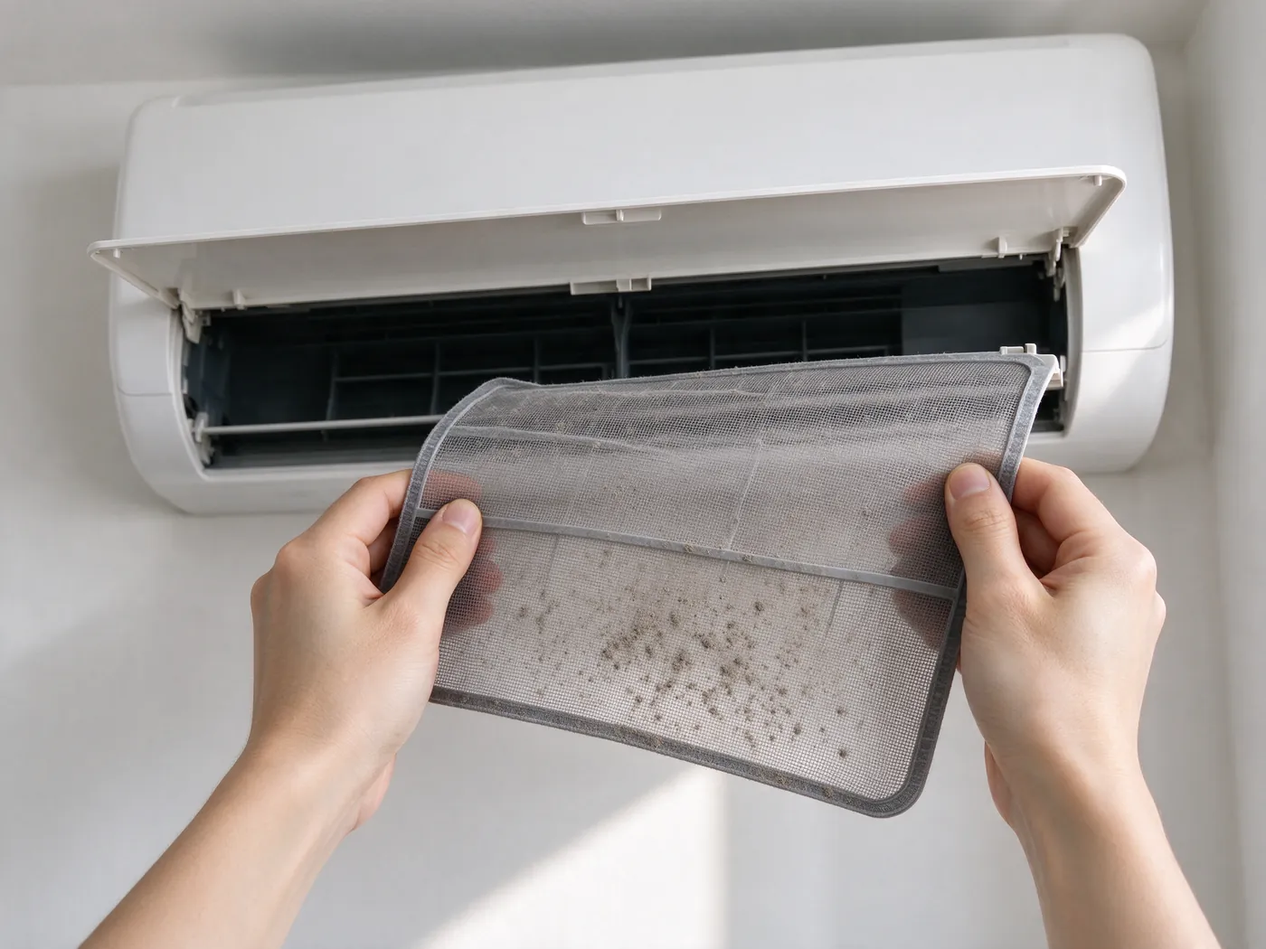
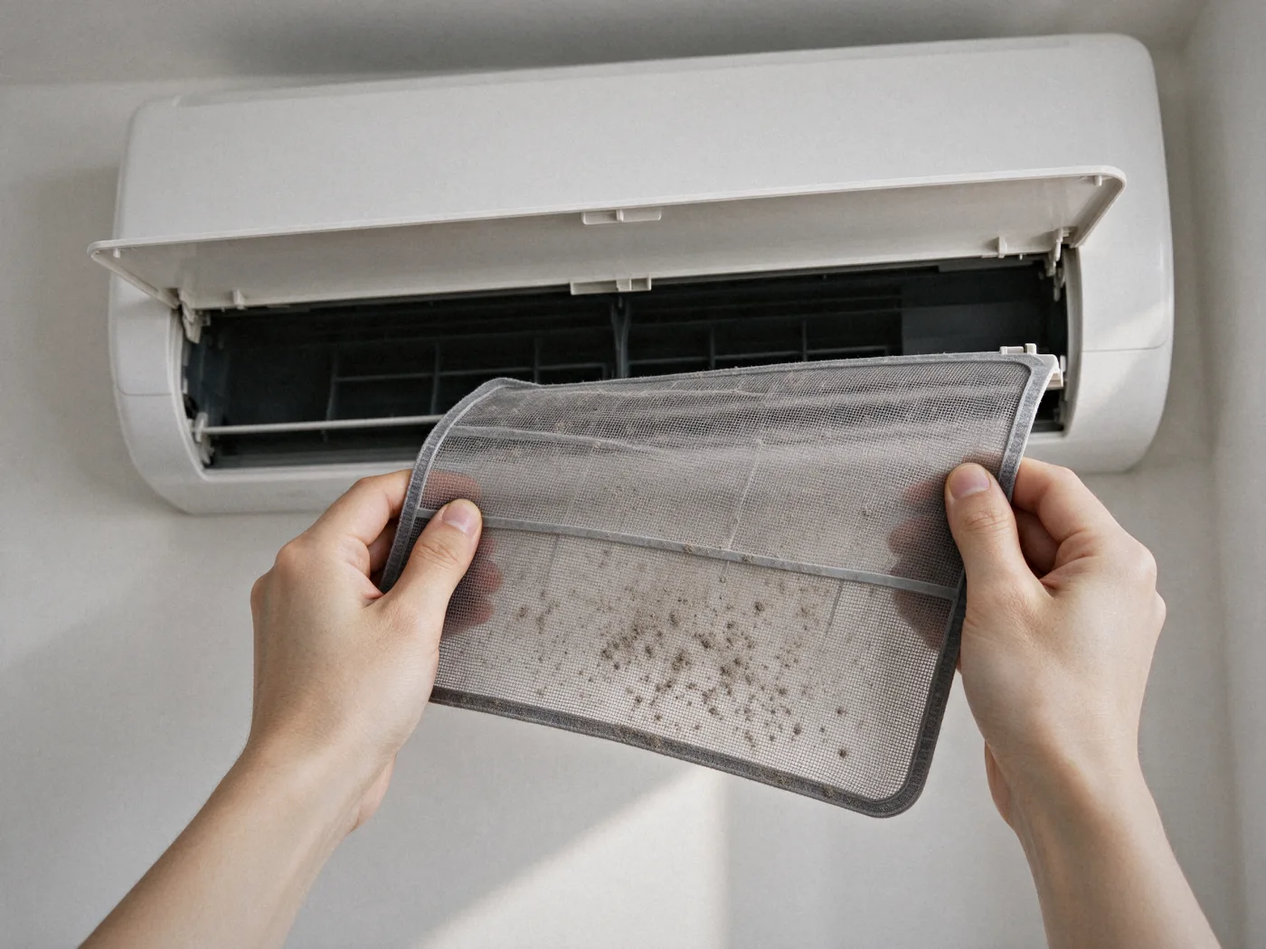
r17: documentary-style photos and photo layout, light and motion for A3–C3
Owner feedback: the first AI photo set looked fake. Eight photos are regenerated as
candid documentary shots of ordinary Thai rooms and job sites; the three older ones
are regraded, and the repair photo is reframed to the hands, gauges and valves.
Every photo goes through one grade (tools/photofinish.py), and brand-like marks on
the units are inpainted. photos.json alt and prompt text now match the images.

Layout and mood are CSS only (v3.css plus each edition's CSS); site.js and the
A/B/C originals are untouched:
- Page headings centre the words against a 3:2 print (pricing collage 4:3).
  On phones the heading and lead come before the photo.
- Each edition lays its own light over the photos. A3 gets warm window light
  with sun bars behind the hero and page heads. B3 gets field-manual plates
  with an offset hairline frame and an ink caption, plus a 2:1 hero. C3 gets
  gallery prints in a white mat with a spotlight and a floor shadow.
- Photos settle in when a page opens. Hero photos drift 5% on scroll
  (scroll-driven animation). Nothing moves with reduced motion.

Claude-Session: https://claude.ai/code/session_01WCDN8FufK2UnzfgaqCiZyF

Changed region(s): [[0.0, 0.579, 1.0, 1.0], [0.645, 0.0, 1.0, 0.4267], [0.0, 0.0, 0.1843, 0.2133]]

diff --git a/sbp-aircare/a3.html b/sbp-aircare/a3.html
@@ -51,7 +51,7 @@ h1,h2,h3,h4{font-family:var(--display)}
 .a3-hero .jobs a{box-shadow:var(--shadow);border-color:transparent}
 .a3-hero .jobs a:hover{box-shadow:var(--shadow),0 0 0 1.5px var(--blue-2)}
 .a3-hero-ph{--ar:4/5;min-height:100%}
-@media (max-width:900px){.a3-hero-g,.a3-hero-g:not(:has(.ph3)){grid-template-columns:minmax(0,1fr);grid-template-areas:"ph" "t" "j"}.a3-hero-ph{--ar:16/10;min-height:0}}
+@media (max-width:900px){.a3-hero-g,.a3-hero-g:not(:has(.ph3)){grid-template-columns:minmax(0,1fr);grid-template-areas:"t" "ph" "j"}.a3-hero .a3-hero-ph{aspect-ratio:5/4;min-height:0;--ph-pos:50% 15%}}
 /* sections */
 section.sec{padding-block:56px 8px}
 .sec-h h2{font-size:clamp(25px,2.8vw,34px);font-weight:700}
@@ -65,6 +65,27 @@ section.sec{padding-block:56px 8px}
 footer{background:var(--tile)}
 @media (min-width:1241px) and (max-width:1480px){.logo small{display:none}.nav a{padding:8px 10px;font-size:14.5px}.hdr .wrap{gap:12px}}
 @media (min-width:1241px) and (max-width:1480px){.sx-sbtn span,.sx-sbtn kbd{display:none}}
+/* r17 · morning light: photos are warmed from the top-left like the window light in the pictures, sit on a long soft
+   shadow, and the hero and every page heading get pale sun bars falling through a window behind the photo */
+:root{
+  --ph-shadow:0 1px 2px rgba(16,34,60,.06),0 34px 60px -34px rgba(16,34,60,.42);
+  --ph-light:linear-gradient(122deg,rgba(255,214,168,.38) 0%,rgba(255,214,168,0) 46%),linear-gradient(0deg,rgba(14,27,48,.16),rgba(14,27,48,0) 32%);
+  --ph-blend:soft-light;
+  --sun:rgba(255,224,180,.72);
+}
+.a3-hero,.sx-vh.has-ph{position:relative;isolation:isolate}
+.a3-hero{overflow-x:clip}
+.a3-hero::before,.sx-vh.has-ph::before{content:"";position:absolute;z-index:-1;pointer-events:none;
+  background:radial-gradient(46% 40% at 70% 14%,rgba(255,221,176,.55),rgba(255,221,176,0) 70%),repeating-linear-gradient(112deg,transparent 0 64px,var(--sun) 64px 132px,transparent 132px 176px);
+  filter:blur(18px);-webkit-mask:radial-gradient(56% 66% at 48% 42%,#000 26%,transparent 76%);mask:radial-gradient(56% 66% at 48% 42%,#000 26%,transparent 76%)}
+.a3-hero::before{inset:-2% -4% -8% 22%}
+.sx-vh.has-ph::before{inset:0 -40px -10px 28%}
+@media (prefers-reduced-motion:no-preference){.a3-hero::before{animation:a3-sun 26s ease-in-out infinite alternate}@keyframes a3-sun{to{translate:-34px 10px}}}
+.a3-hero-ph{--ph-pos:50% 60%}
+.a3-hero .lede{max-width:33em}
+.sx-vh.has-ph h1{line-height:1.2}
+@media (max-width:900px){.a3-hero::before{inset:34% -12% -4% 8%}}
+@media (max-width:860px){.sx-vh.has-ph::before{inset:auto -16px -10px 0;height:70%}}
 
 </style>
 </head>
@@ -92,7 +113,7 @@ footer{background:var(--tile)}
         <li><a href="#repair"><span class="ji" aria-hidden="true"><svg viewBox="0 0 24 24" fill="none" stroke="currentColor" stroke-width="1.8" stroke-linecap="round" stroke-linejoin="round"><path d="M14 6a4 4 0 0 0 5 5l-9 9-3-3 9-9"/></svg></span><span><b>แอร์มีอาการ ซ่อม ตรวจเช็ก</b><small>ไม่เย็น น้ำหยด มีเสียง มีกลิ่น</small></span><span class="jp" data-from="repair"></span></a></li>
         <li><a href="#business"><span class="ji" aria-hidden="true"><svg viewBox="0 0 24 24" fill="none" stroke="currentColor" stroke-width="1.8" stroke-linecap="round" stroke-linejoin="round"><path d="M4 20V8l8-4 8 4v12M9 20v-6h6v6"/></svg></span><span><b>องค์กร สัญญาล้างรายปี</b><small>สำนักงาน ร้านค้า โรงงาน อาคาร</small></span><span class="jp">ราคาขั้นบันได</span></a></li>
       </ul>
-    <figure class="ph3 a3-hero-ph" style="--ar:4/5"><img src="assets/photos/hero-a.webp" alt="ห้องนั่งเล่นสว่างช่วงเช้า มีแอร์ติดผนังสีขาวเหนือโซฟา" loading="eager" decoding="async"><figcaption>ภาพประกอบ</figcaption></figure>
+    <figure class="ph3 a3-hero-ph hero-ph" style="--ar:4/5"><img src="assets/photos/hero-a.webp" alt="ห้องนั่งเล่นคอนโดช่วงสาย มีแอร์ติดผนังสีขาวและรางครอบท่อเหนือโซฟา" loading="eager" decoding="async"><figcaption>ภาพประกอบ</figcaption></figure>
   </div>
 </section>
 <div class="wrap">
@@ -316,14 +337,14 @@ footer{background:var(--tile)}
 <div class="tray" data-compare hidden><ul data-compare-list></ul><button type="button" class="btn-primary" data-compare-go>เทียบ</button></div>
 <div class="drawer" data-drawer id="drawer" hidden><div class="dp" role="dialog" aria-modal="true" aria-label="รายละเอียด"><button type="button" class="x" data-close aria-label="ปิด">×</button><div id="drawerBody"></div></div></div>
 <div hidden>
-<figure class="ph3 sx-ph" style="--ar:4/3" data-sx-photo="shop" hidden><img src="assets/photos/pg-shop.webp" alt="ห้องนอนสว่าง มีแอร์ติดผนังเครื่องใหม่เหนือหัวเตียง" loading="lazy" decoding="async"><figcaption>ภาพประกอบ</figcaption></figure>
+<figure class="ph3 sx-ph" style="--ar:4/3" data-sx-photo="shop" hidden><img src="assets/photos/pg-shop.webp" alt="ห้องนอนทาวน์เฮาส์หลังติดตั้งแอร์ติดผนังเครื่องใหม่ รางครอบท่อเดินไปมุมห้อง แสงไฟตอนหัวค่ำ" loading="lazy" decoding="async"><figcaption>ภาพประกอบ</figcaption></figure>
 <figure class="ph3 sx-ph" style="--ar:4/3" data-sx-photo="cleaning" hidden><img src="assets/photos/pg-clean.webp" alt="ภาพใกล้ครีบคอยล์เย็นขณะฉีดน้ำล้าง มีละอองน้ำ" loading="lazy" decoding="async"><figcaption>ภาพประกอบ</figcaption></figure>
-<figure class="ph3 sx-ph" style="--ar:4/3" data-sx-photo="install" hidden><img src="assets/photos/pg-install.webp" alt="ช่างกำลังบานแฟลร์ท่อทองแดงด้วยเครื่องมือ ข้างคอยล์ร้อน" loading="lazy" decoding="async"><figcaption>ภาพประกอบ</figcaption></figure>
-<figure class="ph3 sx-ph" style="--ar:4/3" data-sx-photo="repair" hidden><img src="assets/photos/pg-repair.webp" alt="ช่างต่อเกจวัดแรงดันกับคอยล์ร้อน ตรวจระบบน้ำยา" loading="lazy" decoding="async"><figcaption>ภาพประกอบ</figcaption></figure>
-<figure class="ph3 sx-ph" style="--ar:4/3" data-sx-photo="business" hidden><img src="assets/photos/pg-business.webp" alt="สำนักงานโล่งกว้าง มีแอร์สี่ทิศทางฝังฝ้าหลายเครื่อง" loading="lazy" decoding="async"><figcaption>ภาพประกอบ</figcaption></figure>
-<figure class="ph3 sx-ph" style="--ar:4/3" data-sx-photo="pricing" hidden><img src="assets/photos/pg-pricing.webp" alt="แอร์สี่ประเภท ติดผนัง แขวนใต้ฝ้า สี่ทิศทาง และตู้ตั้งพื้น ในห้องต่างกัน" loading="lazy" decoding="async"><figcaption>ภาพประกอบ</figcaption></figure>
+<figure class="ph3 sx-ph" style="--ar:4/3" data-sx-photo="install" hidden><img src="assets/photos/pg-install.webp" alt="ช่างคุกเข่าขันแฟลร์นัตเข้าวาล์วคอยล์ร้อนบนขาแขวน ระเบียงคอนโด มีปั๊มสุญญากาศและขดท่อทองแดง" loading="lazy" decoding="async"><figcaption>ภาพประกอบ</figcaption></figure>
+<figure class="ph3 sx-ph" style="--ar:4/3" data-sx-photo="repair" hidden><img src="assets/photos/pg-repair.webp" alt="มือช่างต่อชุดเกจวัดแรงดันเข้าวาล์วคอยล์ร้อน ตรวจระบบน้ำยา" loading="lazy" decoding="async"><figcaption>ภาพประกอบ</figcaption></figure>
+<figure class="ph3 sx-ph" style="--ar:4/3" data-sx-photo="business" hidden><img src="assets/photos/pg-business.webp" alt="สำนักงานที่มีคนทำงาน ฝ้าทีบาร์มีแอร์สี่ทิศทางหลายเครื่อง แสงบ่าย" loading="lazy" decoding="async"><figcaption>ภาพประกอบ</figcaption></figure>
+<figure class="ph3 sx-ph" style="--ar:4/3" data-sx-photo="pricing" hidden><img src="assets/photos/pg-pricing.webp" alt="ภาพสี่ช่อง: แอร์ติดผนังในห้องนอน แอร์สี่ทิศทางในร้านก๋วยเตี๋ยว แอร์สี่ทิศทางในสำนักงาน และแอร์ตู้ตั้งพื้นในห้องประชุม" loading="lazy" decoding="async"><figcaption>ภาพประกอบ</figcaption></figure>
 <figure class="ph3 sx-ph" style="--ar:4/3" data-sx-photo="guide" hidden><img src="assets/photos/pg-guide.webp" alt="มือถอดแผ่นกรองฝุ่นออกจากแอร์ติดผนัง" loading="lazy" decoding="async"><figcaption>ภาพประกอบ</figcaption></figure>
-<figure class="ph3 sx-ph" style="--ar:4/3" data-sx-photo="contact" hidden><img src="assets/photos/pg-contact.webp" alt="ช่างยื่นแท็บเล็ตแสดงรายงานงานให้ลูกค้าตรวจในบ้าน" loading="lazy" decoding="async"><figcaption>ภาพประกอบ</figcaption></figure>
+<figure class="ph3 sx-ph" style="--ar:4/3" data-sx-photo="contact" hidden><img src="assets/photos/pg-contact.webp" alt="ช่างยื่นแท็บเล็ตให้เจ้าของบ้านดูที่หน้าประตูรั้วทาวน์เฮาส์ในซอย" loading="lazy" decoding="async"><figcaption>ภาพประกอบ</figcaption></figure>
 </div>
 <script type="module">
 import { mountV3 } from './assets/v3site.js';

diff --git a/sbp-aircare/c3.html b/sbp-aircare/c3.html
@@ -65,6 +65,20 @@ section.sec{padding-block:64px 8px}
 footer{background:var(--tile-2);border-top:0}
 .c3-tabs .nav{flex:1}
 .c3-hero>.wrap{width:100%}
+/* r17 · gallery prints: every photo hangs in a white mat with a soft shadow on the wall, lit from above; the hero gets a
+   spotlight on the wall behind the headline and a soft shadow under the panorama */
+:root{
+  --r-ph:6px;
+  --ph-shadow:0 0 0 10px #FFFFFF,0 0 0 11px rgba(16,28,46,.08),0 40px 60px -36px rgba(16,28,46,.45);
+  --ph-light:radial-gradient(130% 90% at 50% -12%,rgba(255,255,255,.34),rgba(255,255,255,0) 58%),linear-gradient(0deg,rgba(16,28,46,.18),rgba(16,28,46,0) 34%);
+  --ph-blend:soft-light;
+}
+.c3-hero{background:radial-gradient(56% 62% at 50% 0%,#E6EDF6 0%,rgba(230,237,246,.55) 38%,rgba(255,255,255,0) 72%)}
+.c3-hero>.wrap:has(.ph3)::after{content:"";display:block;height:34px;margin:2px 6% 0;background:radial-gradient(50% 60% at 50% 0%,rgba(16,28,46,.16),rgba(16,28,46,0) 72%)}
+.c3-hero-ph{--ph-pos:50% 46%}
+.ph3{margin:11px}
+.c3-hero .ph3{margin-inline:11px}
+.sx-vh.has-ph{background:radial-gradient(40% 70% at 76% 40%,#EDF2F8,rgba(237,242,248,0) 70%)}
 
 </style>
 </head>
@@ -86,7 +100,7 @@ footer{background:var(--tile-2);border-top:0}
     <p class="lede">ดูขนาดที่เหมาะกับห้องของคุณ เทียบรุ่นพร้อมราคาติดตั้ง ลองวางในห้องจำลองก่อนตัดสินใจ แล้วให้ทีมช่างของบริษัทติดตั้ง ล้าง และดูแลต่อ ในกรุงเทพฯ และปริมณฑล</p>
     <p class="c3-cta"><a class="btn-primary" href="#shop">เลือกแอร์ใหม่</a><a class="btn-ghost" href="#cleaning">ล้างแอร์ที่มีอยู่</a></p>
   </div>
-  <div class="wrap"><figure class="ph3 c3-hero-ph" style="--ar:21/9"><img src="assets/photos/hero-c.webp" alt="ห้องนั่งเล่นคอนโดชั้นสูงวิวเมือง แอร์ติดผนังสีขาว แสงธรรมชาติ" loading="eager" decoding="async"><figcaption>ภาพประกอบ</figcaption></figure></div>
+  <div class="wrap"><figure class="ph3 c3-hero-ph hero-ph" style="--ar:21/9"><img src="assets/photos/hero-c.webp" alt="ห้องนั่งเล่นคอนโดชั้นสูงวิวเมือง แอร์ติดผนังเหนือผนังทีวี แสงบ่ายจากประตูระเบียง" loading="eager" decoding="async"><figcaption>ภาพประกอบ</figcaption></figure></div>
   <div class="wrap">
     <ul class="jobs c3-jobs" aria-label="เลือกงาน">
       <li><a href="#shop"><span class="ji" aria-hidden="true"><svg viewBox="0 0 24 24" fill="none" stroke="currentColor" stroke-width="1.6" stroke-linecap="round" stroke-linejoin="round"><path d="M3 7h18v8H3zM6 15v2M18 15v2M7 11h6"/></svg></span><span><b>ซื้อแอร์ใหม่</b><small data-models></small></span><span class="jp" data-from-buy></span></a></li>
@@ -317,14 +331,14 @@ footer{background:var(--tile-2);border-top:0}
 <div class="tray" data-compare hidden><ul data-compare-list></ul><button type="button" class="btn-primary" data-compare-go>เทียบ</button></div>
 <div class="drawer" data-drawer id="drawer" hidden><div class="dp" role="dialog" aria-modal="true" aria-label="รายละเอียด"><button type="button" class="x" data-close aria-label="ปิด">×</button><div id="drawerBody"></div></div></div>
 <div hidden>
-<figure class="ph3 sx-ph" style="--ar:4/3" data-sx-photo="shop" hidden><img src="assets/photos/pg-shop.webp" alt="ห้องนอนสว่าง มีแอร์ติดผนังเครื่องใหม่เหนือหัวเตียง" loading="lazy" decoding="async"><figcaption>ภาพประกอบ</figcaption></figure>
+<figure class="ph3 sx-ph" style="--ar:4/3" data-sx-photo="shop" hidden><img src="assets/photos/pg-shop.webp" alt="ห้องนอนทาวน์เฮาส์หลังติดตั้งแอร์ติดผนังเครื่องใหม่ รางครอบท่อเดินไปมุมห้อง แสงไฟตอนหัวค่ำ" loading="lazy" decoding="async"><figcaption>ภาพประกอบ</figcaption></figure>
 <figure class="ph3 sx-ph" style="--ar:4/3" data-sx-photo="cleaning" hidden><img src="assets/photos/pg-clean.webp" alt="ภาพใกล้ครีบคอยล์เย็นขณะฉีดน้ำล้าง มีละอองน้ำ" loading="lazy" decoding="async"><figcaption>ภาพประกอบ</figcaption></figure>
-<figure class="ph3 sx-ph" style="--ar:4/3" data-sx-photo="install" hidden><img src="assets/photos/pg-install.webp" alt="ช่างกำลังบานแฟลร์ท่อทองแดงด้วยเครื่องมือ ข้างคอยล์ร้อน" loading="lazy" decoding="async"><figcaption>ภาพประกอบ</figcaption></figure>
-<figure class="ph3 sx-ph" style="--ar:4/3" data-sx-photo="repair" hidden><img src="assets/photos/pg-repair.webp" alt="ช่างต่อเกจวัดแรงดันกับคอยล์ร้อน ตรวจระบบน้ำยา" loading="lazy" decoding="async"><figcaption>ภาพประกอบ</figcaption></figure>
-<figure class="ph3 sx-ph" style="--ar:4/3" data-sx-photo="business" hidden><img src="assets/photos/pg-business.webp" alt="สำนักงานโล่งกว้าง มีแอร์สี่ทิศทางฝังฝ้าหลายเครื่อง" loading="lazy" decoding="async"><figcaption>ภาพประกอบ</figcaption></figure>
-<figure class="ph3 sx-ph" style="--ar:4/3" data-sx-photo="pricing" hidden><img src="assets/photos/pg-pricing.webp" alt="แอร์สี่ประเภท ติดผนัง แขวนใต้ฝ้า สี่ทิศทาง และตู้ตั้งพื้น ในห้องต่างกัน" loading="lazy" decoding="async"><figcaption>ภาพประกอบ</figcaption></figure>
+<figure class="ph3 sx-ph" style="--ar:4/3" data-sx-photo="install" hidden><img src="assets/photos/pg-install.webp" alt="ช่างคุกเข่าขันแฟลร์นัตเข้าวาล์วคอยล์ร้อนบนขาแขวน ระเบียงคอนโด มีปั๊มสุญญากาศและขดท่อทองแดง" loading="lazy" decoding="async"><figcaption>ภาพประกอบ</figcaption></figure>
+<figure class="ph3 sx-ph" style="--ar:4/3" data-sx-photo="repair" hidden><img src="assets/photos/pg-repair.webp" alt="มือช่างต่อชุดเกจวัดแรงดันเข้าวาล์วคอยล์ร้อน ตรวจระบบน้ำยา" loading="lazy" decoding="async"><figcaption>ภาพประกอบ</figcaption></figure>
+<figure class="ph3 sx-ph" style="--ar:4/3" data-sx-photo="business" hidden><img src="assets/photos/pg-business.webp" alt="สำนักงานที่มีคนทำงาน ฝ้าทีบาร์มีแอร์สี่ทิศทางหลายเครื่อง แสงบ่าย" loading="lazy" decoding="async"><figcaption>ภาพประกอบ</figcaption></figure>
+<figure class="ph3 sx-ph" style="--ar:4/3" data-sx-photo="pricing" hidden><img src="assets/photos/pg-pricing.webp" alt="ภาพสี่ช่อง: แอร์ติดผนังในห้องนอน แอร์สี่ทิศทางในร้านก๋วยเตี๋ยว แอร์สี่ทิศทางในสำนักงาน และแอร์ตู้ตั้งพื้นในห้องประชุม" loading="lazy" decoding="async"><figcaption>ภาพประกอบ</figcaption></figure>
 <figure class="ph3 sx-ph" style="--ar:4/3" data-sx-photo="guide" hidden><img src="assets/photos/pg-guide.webp" alt="มือถอดแผ่นกรองฝุ่นออกจากแอร์ติดผนัง" loading="lazy" decoding="async"><figcaption>ภาพประกอบ</figcaption></figure>
-<figure class="ph3 sx-ph" style="--ar:4/3" data-sx-photo="contact" hidden><img src="assets/photos/pg-contact.webp" alt="ช่างยื่นแท็บเล็ตแสดงรายงานงานให้ลูกค้าตรวจในบ้าน" loading="lazy" decoding="async"><figcaption>ภาพประกอบ</figcaption></figure>
+<figure class="ph3 sx-ph" style="--ar:4/3" data-sx-photo="contact" hidden><img src="assets/photos/pg-contact.webp" alt="ช่างยื่นแท็บเล็ตให้เจ้าของบ้านดูที่หน้าประตูรั้วทาวน์เฮาส์ในซอย" loading="lazy" decoding="async"><figcaption>ภาพประกอบ</figcaption></figure>
 </div>
 <script type="module">
 import { mountV3 } from './assets/v3site.js';

diff --git a/sbp-aircare/b3.html b/sbp-aircare/b3.html
@@ -94,6 +94,18 @@ section.sec{padding-block:52px 8px}
 .svc .tile.key{outline:0;border-color:var(--ink);border-width:1.5px}
 .card .ph{border-radius:4px}
 footer{background:var(--tile-2)}
+/* r17 · documentation plates: a hairline frame offset from the photo like a plate in a field manual, an ink caption tag,
+   slightly cooler and flatter colour (the look of site documentation, not advertising) */
+:root{
+  --ph-filter:saturate(.9) contrast(1.04);
+  --ph-light:linear-gradient(180deg,rgba(214,226,244,.14),rgba(18,26,36,.12));
+  --ph-cap-r:2px; --ph-cap-bg:#121A24; --ph-cap-ink:#FFFFFF;
+}
+.ph3{outline:1px solid var(--line);outline-offset:5px}
+.b3-hero .b3-hero-ph{aspect-ratio:2/1;--ph-pos:50% 34%;max-height:min(58vh,560px);width:100%}
+@media (max-width:760px){.b3-hero .b3-hero-ph{aspect-ratio:4/3}}
+.b3-hero{gap:30px}
+.sx-vh.has-ph>figure{margin-inline:6px}
 
 </style>
 </head>
@@ -112,7 +124,7 @@ footer{background:var(--tile-2)}
 <main id="main">
 <div class="wrap">
 <section id="hero" class="b3-hero">
-  <figure class="ph3 b3-hero-ph" style="--ar:16/9"><img src="assets/photos/hero-b.webp" alt="ช่างสวมถุงมือกำลังฉีดล้างคอยล์เย็นของแอร์ติดผนัง มีผ้าใบรองน้ำใต้เครื่อง" loading="eager" decoding="async"><figcaption>ภาพประกอบ</figcaption></figure>
+  <figure class="ph3 b3-hero-ph hero-ph" style="--ar:16/9"><img src="assets/photos/hero-b.webp" alt="ช่างยืนบนบันไดฉีดล้างคอยล์เย็นแอร์ติดผนังในห้องนอน มีถุงล้างรองน้ำและพลาสติกคลุมเตียง" loading="eager" decoding="async"><figcaption>ภาพประกอบ</figcaption></figure>
   <div class="b3-hero-g">
     <div>
       <h1>งานแอร์ที่ตรวจสอบได้<br>ทุกเครื่อง ทุกรอบ</h1>
@@ -360,14 +372,14 @@ footer{background:var(--tile-2)}
 <div class="tray" data-compare hidden><ul data-compare-list></ul><button type="button" class="btn-primary" data-compare-go>เทียบ</button></div>
 <div class="drawer" data-drawer id="drawer" hidden><div class="dp" role="dialog" aria-modal="true" aria-label="รายละเอียด"><button type="button" class="x" data-close aria-label="ปิด">×</button><div id="drawerBody"></div></div></div>
 <div hidden>
-<figure class="ph3 sx-ph" style="--ar:4/3" data-sx-photo="shop" hidden><img src="assets/photos/pg-shop.webp" alt="ห้องนอนสว่าง มีแอร์ติดผนังเครื่องใหม่เหนือหัวเตียง" loading="lazy" decoding="async"><figcaption>ภาพประกอบ</figcaption></figure>
+<figure class="ph3 sx-ph" style="--ar:4/3" data-sx-photo="shop" hidden><img src="assets/photos/pg-shop.webp" alt="ห้องนอนทาวน์เฮาส์หลังติดตั้งแอร์ติดผนังเครื่องใหม่ รางครอบท่อเดินไปมุมห้อง แสงไฟตอนหัวค่ำ" loading="lazy" decoding="async"><figcaption>ภาพประกอบ</figcaption></figure>
 <figure class="ph3 sx-ph" style="--ar:4/3" data-sx-photo="cleaning" hidden><img src="assets/photos/pg-clean.webp" alt="ภาพใกล้ครีบคอยล์เย็นขณะฉีดน้ำล้าง มีละอองน้ำ" loading="lazy" decoding="async"><figcaption>ภาพประกอบ</figcaption></figure>
-<figure class="ph3 sx-ph" style="--ar:4/3" data-sx-photo="install" hidden><img src="assets/photos/pg-install.webp" alt="ช่างกำลังบานแฟลร์ท่อทองแดงด้วยเครื่องมือ ข้างคอยล์ร้อน" loading="lazy" decoding="async"><figcaption>ภาพประกอบ</figcaption></figure>
-<figure class="ph3 sx-ph" style="--ar:4/3" data-sx-photo="repair" hidden><img src="assets/photos/pg-repair.webp" alt="ช่างต่อเกจวัดแรงดันกับคอยล์ร้อน ตรวจระบบน้ำยา" loading="lazy" decoding="async"><figcaption>ภาพประกอบ</figcaption></figure>
-<figure class="ph3 sx-ph" style="--ar:4/3" data-sx-photo="business" hidden><img src="assets/photos/pg-business.webp" alt="สำนักงานโล่งกว้าง มีแอร์สี่ทิศทางฝังฝ้าหลายเครื่อง" loading="lazy" decoding="async"><figcaption>ภาพประกอบ</figcaption></figure>
-<figure class="ph3 sx-ph" style="--ar:4/3" data-sx-photo="pricing" hidden><img src="assets/photos/pg-pricing.webp" alt="แอร์สี่ประเภท ติดผนัง แขวนใต้ฝ้า สี่ทิศทาง และตู้ตั้งพื้น ในห้องต่างกัน" loading="lazy" decoding="async"><figcaption>ภาพประกอบ</figcaption></figure>
+<figure class="ph3 sx-ph" style="--ar:4/3" data-sx-photo="install" hidden><img src="assets/photos/pg-install.webp" alt="ช่างคุกเข่าขันแฟลร์นัตเข้าวาล์วคอยล์ร้อนบนขาแขวน ระเบียงคอนโด มีปั๊มสุญญากาศและขดท่อทองแดง" loading="lazy" decoding="async"><figcaption>ภาพประกอบ</figcaption></figure>
+<figure class="ph3 sx-ph" style="--ar:4/3" data-sx-photo="repair" hidden><img src="assets/photos/pg-repair.webp" alt="มือช่างต่อชุดเกจวัดแรงดันเข้าวาล์วคอยล์ร้อน ตรวจระบบน้ำยา" loading="lazy" decoding="async"><figcaption>ภาพประกอบ</figcaption></figure>
+<figure class="ph3 sx-ph" style="--ar:4/3" data-sx-photo="business" hidden><img src="assets/photos/pg-business.webp" alt="สำนักงานที่มีคนทำงาน ฝ้าทีบาร์มีแอร์สี่ทิศทางหลายเครื่อง แสงบ่าย" loading="lazy" decoding="async"><figcaption>ภาพประกอบ</figcaption></figure>
+<figure class="ph3 sx-ph" style="--ar:4/3" data-sx-photo="pricing" hidden><img src="assets/photos/pg-pricing.webp" alt="ภาพสี่ช่อง: แอร์ติดผนังในห้องนอน แอร์สี่ทิศทางในร้านก๋วยเตี๋ยว แอร์สี่ทิศทางในสำนักงาน และแอร์ตู้ตั้งพื้นในห้องประชุม" loading="lazy" decoding="async"><figcaption>ภาพประกอบ</figcaption></figure>
 <figure class="ph3 sx-ph" style="--ar:4/3" data-sx-photo="guide" hidden><img src="assets/photos/pg-guide.webp" alt="มือถอดแผ่นกรองฝุ่นออกจากแอร์ติดผนัง" loading="lazy" decoding="async"><figcaption>ภาพประกอบ</figcaption></figure>
-<figure class="ph3 sx-ph" style="--ar:4/3" data-sx-photo="contact" hidden><img src="assets/photos/pg-contact.webp" alt="ช่างยื่นแท็บเล็ตแสดงรายงานงานให้ลูกค้าตรวจในบ้าน" loading="lazy" decoding="async"><figcaption>ภาพประกอบ</figcaption></figure>
+<figure class="ph3 sx-ph" style="--ar:4/3" data-sx-photo="contact" hidden><img src="assets/photos/pg-contact.webp" alt="ช่างยื่นแท็บเล็ตให้เจ้าของบ้านดูที่หน้าประตูรั้วทาวน์เฮาส์ในซอย" loading="lazy" decoding="async"><figcaption>ภาพประกอบ</figcaption></figure>
 </div>
 <script type="module">
 import { mountV3 } from './assets/v3site.js';

diff --git a/sbp-aircare/assets/v3.css b/sbp-aircare/assets/v3.css
@@ -275,14 +275,36 @@ footer ul{list-style:none;margin:0;padding:0;display:grid;gap:4px}
 @media (max-width:760px){#quote>div,#quote>.tile,#quote .sheet,#quote .panel{grid-template-columns:1fr!important}#qform{grid-template-columns:1fr!important}}
 
 /* ---- r13 · photos: AI illustrations, always captioned "ภาพประกอบ" (rules: no brand on the units, no person presented as our team) ---- */
-.ph3{position:relative;margin:0;border-radius:var(--r-ph);overflow:hidden;background:linear-gradient(155deg,var(--blue-l),var(--tile-2) 70%);aspect-ratio:var(--ar);max-width:100%;isolation:isolate}
-.ph3 img{display:block;width:100%;height:100%;object-fit:cover}
-.ph3 figcaption{position:absolute;right:10px;bottom:10px;z-index:1;font-size:12px;line-height:1.4;padding:2px 9px;border-radius:999px;background:rgba(255,255,255,.88);color:#34425A}
-/* page heading + its photo (site.js puts <figure data-sx-photo> into .sx-vh) */
-.sx-vh.has-ph{grid-template-columns:minmax(0,1.05fr) minmax(0,.95fr);column-gap:clamp(20px,4vw,56px);align-items:center}
-.sx-vh.has-ph>:not(figure){grid-column:1}
-.sx-vh.has-ph>figure{grid-column:2;grid-row:1/span 8;align-self:stretch;aspect-ratio:auto;min-height:260px}
-@media (max-width:860px){.sx-vh.has-ph{grid-template-columns:minmax(0,1fr)}.sx-vh.has-ph>figure{grid-column:1;grid-row:auto;order:-1;min-height:0;aspect-ratio:16/9}}
+.ph3{position:relative;margin:0;border-radius:var(--r-ph);overflow:hidden;background:linear-gradient(155deg,var(--blue-l),var(--tile-2) 70%);aspect-ratio:var(--ar);max-width:100%;isolation:isolate;box-shadow:var(--ph-shadow,none)}
+.ph3 img{display:block;width:100%;height:100%;object-fit:cover;object-position:var(--ph-pos,50% 50%);filter:var(--ph-filter,none)}
+/* r17 · the edition's light over the print (::before) and a hairline so white walls never melt into a white page (::after) */
+.ph3::before,.ph3::after{content:"";position:absolute;inset:0;pointer-events:none;border-radius:inherit}
+.ph3::before{background:var(--ph-light,none);mix-blend-mode:var(--ph-blend,normal)}
+.ph3::after{box-shadow:inset 0 0 0 1px rgba(16,28,46,.09)}
+.ph3 figcaption{position:absolute;right:10px;bottom:10px;z-index:1;font-size:12px;line-height:1.4;padding:2px 9px;border-radius:var(--ph-cap-r,999px);background:var(--ph-cap-bg,rgba(255,255,255,.86));color:var(--ph-cap-ink,#34425A);-webkit-backdrop-filter:blur(6px);backdrop-filter:blur(6px)}
+/* r17 · a photo settles into place when its page opens (replays on every page switch: hidden → shown restarts it);
+   hero photos drift 5% inside their frame while the hero scrolls away (at rest the frame shows the top of the photo).
+   Nothing moves with reduced motion. */
+@media (prefers-reduced-motion:no-preference){
+  .ph3 img{animation:ph3-in 1.8s var(--ease) both}
+  @keyframes ph3-in{from{scale:1.05}to{scale:1}}
+  @supports (animation-timeline:view()){
+    .ph3.hero-ph img{height:105.3%;animation:ph3-in 1.8s var(--ease) both,ph3-drift linear both;animation-timeline:auto,view();animation-range:normal,exit}
+    @keyframes ph3-drift{to{translate:0 -5%}}
+  }
+}
+/* page heading + its photo (site.js puts <figure data-sx-photo> into .sx-vh): the words sit centred against a 3:2 print */
+@media (min-width:861px){
+  .sx-vh.has-ph{grid-template-columns:minmax(0,1fr) minmax(0,1fr);grid-template-rows:minmax(0,1fr) repeat(6,auto) minmax(0,1fr);column-gap:clamp(28px,4.6vw,72px);row-gap:10px;align-items:start}
+  .sx-vh.has-ph>:not(figure){grid-column:1}
+  .sx-vh.has-ph>.sx-crumb{grid-row:2}.sx-vh.has-ph>h1{grid-row:3}.sx-vh.has-ph>.sx-lead{grid-row:4}.sx-vh.has-ph>.sx-facts{grid-row:5}.sx-vh.has-ph>.sx-jump{grid-row:6}.sx-vh.has-ph>.sx-js{grid-row:7}
+  .sx-vh.has-ph>figure{grid-column:2;grid-row:1/-1;align-self:center;aspect-ratio:3/2;min-height:0}
+  .sx-vh.has-ph>.sx-lead{max-width:34em}
+}
+/* narrow: heading and lead first, then the photo, then the facts and the jump links */
+@media (max-width:860px){.sx-vh.has-ph>:is(.sx-crumb,h1,.sx-lead){order:-2}.sx-vh.has-ph>figure{order:-1;aspect-ratio:16/10;margin-block:6px 4px}}
+/* the pricing collage keeps its own 4:3 and no light overlay, so its white gutters stay even and white */
+.sx-vh.has-ph>figure[data-sx-photo="pricing"]{aspect-ratio:4/3;--ph-light:none}
 .sx-facts{list-style:none;margin:6px 0 0;padding:0;display:flex;flex-wrap:wrap;gap:6px 18px;font-size:14px;color:var(--ink-2)}
 .sx-facts li::before{content:"";display:inline-block;width:6px;height:6px;border-radius:50%;background:var(--ok);margin-right:8px;vertical-align:2px}
 /* a section's own lead block */

diff --git a/sbp-aircare/tools/v3/a3.css b/sbp-aircare/tools/v3/a3.css
@@ -37,7 +37,7 @@ h1,h2,h3,h4{font-family:var(--display)}
 .a3-hero .jobs a{box-shadow:var(--shadow);border-color:transparent}
 .a3-hero .jobs a:hover{box-shadow:var(--shadow),0 0 0 1.5px var(--blue-2)}
 .a3-hero-ph{--ar:4/5;min-height:100%}
-@media (max-width:900px){.a3-hero-g,.a3-hero-g:not(:has(.ph3)){grid-template-columns:minmax(0,1fr);grid-template-areas:"ph" "t" "j"}.a3-hero-ph{--ar:16/10;min-height:0}}
+@media (max-width:900px){.a3-hero-g,.a3-hero-g:not(:has(.ph3)){grid-template-columns:minmax(0,1fr);grid-template-areas:"t" "ph" "j"}.a3-hero .a3-hero-ph{aspect-ratio:5/4;min-height:0;--ph-pos:50% 15%}}
 /* sections */
 section.sec{padding-block:56px 8px}
 .sec-h h2{font-size:clamp(25px,2.8vw,34px);font-weight:700}
@@ -51,3 +51,24 @@ section.sec{padding-block:56px 8px}
 footer{background:var(--tile)}
 @media (min-width:1241px) and (max-width:1480px){.logo small{display:none}.nav a{padding:8px 10px;font-size:14.5px}.hdr .wrap{gap:12px}}
 @media (min-width:1241px) and (max-width:1480px){.sx-sbtn span,.sx-sbtn kbd{display:none}}
+/* r17 · morning light: photos are warmed from the top-left like the window light in the pictures, sit on a long soft
+   shadow, and the hero and every page heading get pale sun bars falling through a window behind the photo */
+:root{
+  --ph-shadow:0 1px 2px rgba(16,34,60,.06),0 34px 60px -34px rgba(16,34,60,.42);
+  --ph-light:linear-gradient(122deg,rgba(255,214,168,.38) 0%,rgba(255,214,168,0) 46%),linear-gradient(0deg,rgba(14,27,48,.16),rgba(14,27,48,0) 32%);
+  --ph-blend:soft-light;
+  --sun:rgba(255,224,180,.72);
+}
+.a3-hero,.sx-vh.has-ph{position:relative;isolation:isolate}
+.a3-hero{overflow-x:clip}
+.a3-hero::before,.sx-vh.has-ph::before{content:"";position:absolute;z-index:-1;pointer-events:none;
+  background:radial-gradient(46% 40% at 70% 14%,rgba(255,221,176,.55),rgba(255,221,176,0) 70%),repeating-linear-gradient(112deg,transparent 0 64px,var(--sun) 64px 132px,transparent 132px 176px);
+  filter:blur(18px);-webkit-mask:radial-gradient(56% 66% at 48% 42%,#000 26%,transparent 76%);mask:radial-gradient(56% 66% at 48% 42%,#000 26%,transparent 76%)}
+.a3-hero::before{inset:-2% -4% -8% 22%}
+.sx-vh.has-ph::before{inset:0 -40px -10px 28%}
+@media (prefers-reduced-motion:no-preference){.a3-hero::before{animation:a3-sun 26s ease-in-out infinite alternate}@keyframes a3-sun{to{translate:-34px 10px}}}
+.a3-hero-ph{--ph-pos:50% 60%}
+.a3-hero .lede{max-width:33em}
+.sx-vh.has-ph h1{line-height:1.2}
+@media (max-width:900px){.a3-hero::before{inset:34% -12% -4% 8%}}
+@media (max-width:860px){.sx-vh.has-ph::before{inset:auto -16px -10px 0;height:70%}}

diff --git a/sbp-aircare/preview3.html b/sbp-aircare/preview3.html
@@ -131,7 +131,7 @@ tbody th{font-weight:600;white-space:nowrap}
       </tbody>
     </table></div>
   </section>
-  <p class="note">ภาพถ่ายประกอบในรุ่นที่ 3 (เมื่อเพิ่มเข้า) เป็นภาพที่สร้างด้วย AI ไม่ใช่ภาพงานหรือทีมงานจริง และไม่มีโลโก้ยี่ห้อบนตัวเครื่อง ภาพ 3 มิติในทุกแบบเป็นแบบจำลองเพื่ออธิบาย ราคาบนเว็บเป็นราคาก่อน VAT ยืนยันอีกครั้งในใบเสนอราคาอย่างเป็นทางการ</p>
+  <p class="note">ภาพถ่ายประกอบในรุ่นที่ 3 เป็นภาพที่สร้างด้วย AI (มีป้าย "ภาพประกอบ" ทุกภาพ) ไม่ใช่ภาพงานหรือทีมงานจริง และไม่มีโลโก้ยี่ห้อบนตัวเครื่อง ภาพ 3 มิติในทุกแบบเป็นแบบจำลองเพื่ออธิบาย ราคาบนเว็บเป็นราคาก่อน VAT ยืนยันอีกครั้งในใบเสนอราคาอย่างเป็นทางการ</p>
 </div>
 </body>
 </html>

diff --git a/sbp-aircare/tools/v3/home-c3.html b/sbp-aircare/tools/v3/home-c3.html
@@ -4,7 +4,7 @@
     <p class="lede">ดูขนาดที่เหมาะกับห้องของคุณ เทียบรุ่นพร้อมราคาติดตั้ง ลองวางในห้องจำลองก่อนตัดสินใจ แล้วให้ทีมช่างของบริษัทติดตั้ง ล้าง และดูแลต่อ ในกรุงเทพฯ และปริมณฑล</p>
     <p class="c3-cta"><a class="btn-primary" href="#shop">เลือกแอร์ใหม่</a><a class="btn-ghost" href="#cleaning">ล้างแอร์ที่มีอยู่</a></p>
   </div>
-  <div class="wrap">{{photo:hero-c|c3-hero-ph|eager}}</div>
+  <div class="wrap">{{photo:hero-c|c3-hero-ph hero-ph|eager}}</div>
   <div class="wrap">
     <ul class="jobs c3-jobs" aria-label="เลือกงาน">
       <li><a href="#shop"><span class="ji" aria-hidden="true"><svg viewBox="0 0 24 24" fill="none" stroke="currentColor" stroke-width="1.6" stroke-linecap="round" stroke-linejoin="round"><path d="M3 7h18v8H3zM6 15v2M18 15v2M7 11h6"/></svg></span><span><b>ซื้อแอร์ใหม่</b><small data-models></small></span><span class="jp" data-from-buy></span></a></li>

diff --git a/sbp-aircare/tools/v3/home-a3.html b/sbp-aircare/tools/v3/home-a3.html
@@ -11,7 +11,7 @@
         <li><a href="#repair"><span class="ji" aria-hidden="true"><svg viewBox="0 0 24 24" fill="none" stroke="currentColor" stroke-width="1.8" stroke-linecap="round" stroke-linejoin="round"><path d="M14 6a4 4 0 0 0 5 5l-9 9-3-3 9-9"/></svg></span><span><b>แอร์มีอาการ ซ่อม ตรวจเช็ก</b><small>ไม่เย็น น้ำหยด มีเสียง มีกลิ่น</small></span><span class="jp" data-from="repair"></span></a></li>
         <li><a href="#business"><span class="ji" aria-hidden="true"><svg viewBox="0 0 24 24" fill="none" stroke="currentColor" stroke-width="1.8" stroke-linecap="round" stroke-linejoin="round"><path d="M4 20V8l8-4 8 4v12M9 20v-6h6v6"/></svg></span><span><b>องค์กร สัญญาล้างรายปี</b><small>สำนักงาน ร้านค้า โรงงาน อาคาร</small></span><span class="jp">ราคาขั้นบันได</span></a></li>
       </ul>
-    {{photo:hero-a|a3-hero-ph|eager}}
+    {{photo:hero-a|a3-hero-ph hero-ph|eager}}
   </div>
 </section>
 <div class="wrap">

diff --git a/sbp-aircare/tools/v3/c3.css b/sbp-aircare/tools/v3/c3.css
@@ -51,3 +51,17 @@ section.sec{padding-block:64px 8px}
 footer{background:var(--tile-2);border-top:0}
 .c3-tabs .nav{flex:1}
 .c3-hero>.wrap{width:100%}
+/* r17 · gallery prints: every photo hangs in a white mat with a soft shadow on the wall, lit from above; the hero gets a
+   spotlight on the wall behind the headline and a soft shadow under the panorama */
+:root{
+  --r-ph:6px;
+  --ph-shadow:0 0 0 10px #FFFFFF,0 0 0 11px rgba(16,28,46,.08),0 40px 60px -36px rgba(16,28,46,.45);
+  --ph-light:radial-gradient(130% 90% at 50% -12%,rgba(255,255,255,.34),rgba(255,255,255,0) 58%),linear-gradient(0deg,rgba(16,28,46,.18),rgba(16,28,46,0) 34%);
+  --ph-blend:soft-light;
+}
+.c3-hero{background:radial-gradient(56% 62% at 50% 0%,#E6EDF6 0%,rgba(230,237,246,.55) 38%,rgba(255,255,255,0) 72%)}
+.c3-hero>.wrap:has(.ph3)::after{content:"";display:block;height:34px;margin:2px 6% 0;background:radial-gradient(50% 60% at 50% 0%,rgba(16,28,46,.16),rgba(16,28,46,0) 72%)}
+.c3-hero-ph{--ph-pos:50% 46%}
+.ph3{margin:11px}
+.c3-hero .ph3{margin-inline:11px}
+.sx-vh.has-ph{background:radial-gradient(40% 70% at 76% 40%,#EDF2F8,rgba(237,242,248,0) 70%)}

diff --git a/sbp-aircare/tools/v3/b3.css b/sbp-aircare/tools/v3/b3.css
@@ -80,3 +80,15 @@ section.sec{padding-block:52px 8px}
 .svc .tile.key{outline:0;border-color:var(--ink);border-width:1.5px}
 .card .ph{border-radius:4px}
 footer{background:var(--tile-2)}
+/* r17 · documentation plates: a hairline frame offset from the photo like a plate in a field manual, an ink caption tag,
+   slightly cooler and flatter colour (the look of site documentation, not advertising) */
+:root{
+  --ph-filter:saturate(.9) contrast(1.04);
+  --ph-light:linear-gradient(180deg,rgba(214,226,244,.14),rgba(18,26,36,.12));
+  --ph-cap-r:2px; --ph-cap-bg:#121A24; --ph-cap-ink:#FFFFFF;
+}
+.ph3{outline:1px solid var(--line);outline-offset:5px}
+.b3-hero .b3-hero-ph{aspect-ratio:2/1;--ph-pos:50% 34%;max-height:min(58vh,560px);width:100%}
+@media (max-width:760px){.b3-hero .b3-hero-ph{aspect-ratio:4/3}}
+.b3-hero{gap:30px}
+.sx-vh.has-ph>figure{margin-inline:6px}

diff --git a/sbp-aircare/tools/v3/home-b3.html b/sbp-aircare/tools/v3/home-b3.html
@@ -1,6 +1,6 @@
 <div class="wrap">
 <section id="hero" class="b3-hero">
-  {{photo:hero-b|b3-hero-ph|eager}}
+  {{photo:hero-b|b3-hero-ph hero-ph|eager}}
   <div class="b3-hero-g">
     <div>
       <h1>งานแอร์ที่ตรวจสอบได้<br>ทุกเครื่อง ทุกรอบ</h1>

diff --git a/sbp-aircare/tools/photofinish.py b/sbp-aircare/tools/photofinish.py
@@ -1,0 +1,53 @@
+#!/usr/bin/env python3
+"""r17 photo finishing for assets/photos (A3–C3): crop to the manifest aspect, optional inpaint boxes (remove brand-like marks
+on the units), then one shared grade so AI illustrations read as ordinary photographs: lifted blacks, soft highlight roll-off,
+calmer colour, a little micro-contrast, light vignette and fine grain. Needs numpy + opencv-python-headless.
+usage: python3 tools/photofinish.py SRC.png assets/photos/NAME.webp 4:3 1400 [--lift .9] [--warm .3] [--sat .9]
+       [--xbias .5] [--ybias .4] [--inpaint x0,y0,x1,y1 (fractions of the source, repeatable)]"""
+# Photographic finishing for the site's illustration photos: one grade for the whole set so it reads as one photographer
+# (matte blacks, rolled-off highlights instead of glowing white walls, slightly calmer colour, a little micro-contrast,
+# lens vignette and fine grain), then crop to the planned aspect ratio and save as webp.
+# usage: finish.py src dst AR MAXW [--lift G] [--warm W] [--ybias B] [--inpaint x0,y0,x1,y1 (fractions)]
+import sys, argparse, cv2, numpy as np
+ap = argparse.ArgumentParser()
+ap.add_argument('src'); ap.add_argument('dst'); ap.add_argument('ar'); ap.add_argument('maxw', type=int)
+ap.add_argument('--lift', type=float, default=1.0)     # gamma < 1 brightens the mid-tones (dark interiors)
+ap.add_argument('--warm', type=float, default=0.0)     # + warmer, − cooler (white balance nudge)
+ap.add_argument('--ybias', type=float, default=0.4)    # where to crop vertically (0 top … 1 bottom)
+ap.add_argument('--xbias', type=float, default=0.5)
+ap.add_argument('--inpaint', action='append', default=[])
+ap.add_argument('--sat', type=float, default=0.93)
+a = ap.parse_args()
+im = cv2.imread(a.src, cv2.IMREAD_COLOR)
+H, W = im.shape[:2]
+for box in a.inpaint:   # remove a small distracting detail (e.g. debris), filled from its surroundings
+    x0, y0, x1, y1 = (float(v) for v in box.split(','))
+    m = np.zeros((H, W), np.uint8); cv2.rectangle(m, (int(x0 * W), int(y0 * H)), (int(x1 * W), int(y1 * H)), 255, -1)
+    im = cv2.inpaint(im, m, 9, cv2.INPAINT_TELEA)
+p, q = (int(v) for v in a.ar.split(':')); want = p / q
+if W / H > want: nw = round(H * want); x = round((W - nw) * a.xbias); im = im[:, x:x + nw]
+else: nh = round(W / want); y = round((H - nh) * a.ybias); im = im[y:y + nh]
+if im.shape[1] > a.maxw: im = cv2.resize(im, (a.maxw, round(a.maxw * im.shape[0] / im.shape[1])), interpolation=cv2.INTER_AREA)
+f = im.astype(np.float32) / 255.0
+if a.lift != 1.0: f = np.power(f, a.lift)
+# tone curve: matte shadow floor, gentle S in the mids, highlights rolled off below pure white
+xs = np.array([0, .10, .25, .50, .75, .90, 1.0]); ys = np.array([.022, .105, .245, .50, .755, .875, .955])
+f = np.interp(f, xs, ys).astype(np.float32)
+# colour: calmer saturation + white balance nudge in Lab
+lab = cv2.cvtColor(f, cv2.COLOR_BGR2LAB)
+lab[..., 1] *= a.sat; lab[..., 2] = lab[..., 2] * a.sat + a.warm * 4.0
+f = np.clip(cv2.cvtColor(lab, cv2.COLOR_LAB2BGR), 0, 1)
+# micro-contrast (large-radius unsharp) — AI images are too smooth
+blur = cv2.GaussianBlur(f, (0, 0), 12)
+f = np.clip(f + 0.18 * (f - blur), 0, 1)
+# lens vignette
+h, w = f.shape[:2]; yy, xx = np.mgrid[0:h, 0:w].astype(np.float32)
+r2 = ((xx - w / 2) / (w / 2)) ** 2 + ((yy - h / 2) / (h / 2)) ** 2
+f *= (1 - 0.10 * np.clip(r2, 0, 2))[..., None]
+# fine luminance grain (slightly soft, like a real sensor at ISO 400–800)
+rng = np.random.default_rng(7); g = rng.normal(0, 0.016, (h, w)).astype(np.float32)
+g = cv2.GaussianBlur(g, (0, 0), 0.6)
+f = np.clip(f + g[..., None], 0, 1)
+out = (f * 255 + 0.5).astype(np.uint8)
+cv2.imwrite(a.dst, out, [cv2.IMWRITE_WEBP_QUALITY, 82])
+import os; print(os.path.basename(a.dst), out.shape[1], 'x', out.shape[0], os.path.getsize(a.dst) // 1024, 'KB')
